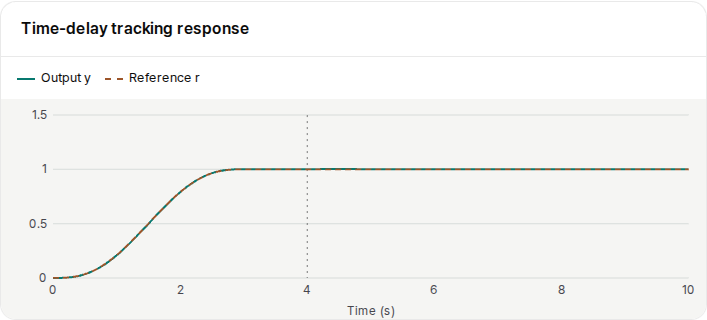
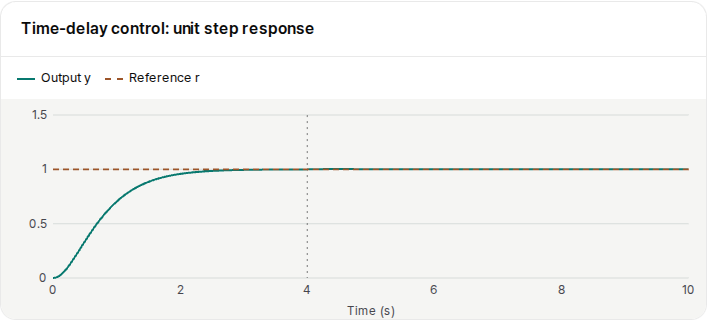
Use the common unit step in the time-delay control lab

diff --git a/tdc-lti/index.html b/tdc-lti/index.html
@@ -5,13 +5,13 @@
 <header class="site-header"><a class="brand" href="../" aria-label="Control Simulators 홈"><span class="brand-mark" aria-hidden="true"><img src="../assets/lab-logo.png" alt=""></span><span class="brand-label">CONTROL<br>SIMULATORS</span></a><div class="language-switch" role="group" aria-label="언어 선택"><button type="button" data-lang="ko" aria-pressed="true" lang="ko" disabled>한국어</button><button type="button" data-lang="en" aria-pressed="false" lang="en" disabled>EN</button></div></header>
 <main id="main" class="container pid-lab"><a class="back-link" href="../" data-en="← All experiments">← 모든 실험</a><div class="sim-heading"><div><h1 data-en="Time delay control (TDC) of a second-order LTI system">2차 LTI 시스템의 시간 지연 제어(TDC)</h1><p data-en="Estimate the unknown dynamics from past acceleration and applied input. Watch how long the estimate takes to respond after a disturbance step.">과거의 가속도와 실제 적용 입력으로 현재의 미지 동역학을 추정합니다. 외란이 바뀐 직후 추정값이 따라오는 시간을 확인하세요.</p></div></div>
 <noscript>실험을 조작하려면 JavaScript를 켜세요.</noscript><section class="panel plant-panel"><div class="panel-heading"><h2 data-en="Second-order plant">2차 시스템 설정</h2><span id="plant-equation">G(s) = 1 / (s² + s + 1)</span></div><div id="plant-controls"></div></section>
-<div class="pid-layout method-layout"><section class="panel pid-output" id="method-response-panel"><div class="panel-heading"><h2 id="response-title" data-en="Time-delay tracking response">시간지연 제어 추종 응답</h2></div><div class="legend pid-legend"><span class="key-output" data-en="Output y">출력 y</span><span class="key-target" data-en="Reference r">목표 r</span></div><svg id="response-plot" role="img" aria-labelledby="response-title"></svg></section>
+<div class="pid-layout method-layout"><section class="panel pid-output" id="method-response-panel"><div class="panel-heading"><h2 id="response-title" data-en="Time-delay control: unit step response">시간지연 제어 단위 계단응답</h2></div><div class="legend pid-legend"><span class="key-output" data-en="Output y">출력 y</span><span class="key-target" data-en="Reference r">목표 r</span></div><svg id="response-plot" role="img" aria-labelledby="response-title"></svg></section>
 <section class="panel pid-settings"><div class="panel-heading"><h2 data-en="Controller settings">제어기 설정</h2></div><div class="method-controls"><div><label for="method-delay" data-en="Estimation lag ℓ (samples)">추정 지연 ℓ (샘플)</label><output for="method-delay">1</output><input type="range" id="method-delay" min="1" max="10" step="1" value="1"></div><div><label for="method-nominal" data-en="Input-gain ratio b₀/b">입력 이득 비 b₀/b</label><output for="method-nominal">1</output><input type="range" id="method-nominal" min="0.75" max="1.5" step="0.05" value="1"></div><div><label for="method-disturbance" data-en="Acceleration disturbance after 4 s">4초부터의 가속도 외란 d</label><output for="method-disturbance">0.8</output><input type="range" id="method-disturbance" min="0" max="2" step="0.1" value="0.8"></div><button type="button" id="method-reset" class="primary" data-en="Reset">초기화</button></div></section>
 <section class="panel method-diagnostic" id="method-diag-panel"><div class="panel-heading"><h2 id="diag-title" data-en="Unknown dynamics and delayed estimate">미지 동역학과 시간지연 추정</h2></div><div class="legend pid-legend"><span class="key-unknown" data-en="True F">실제 F</span><span class="key-estimate" data-en="Delayed estimate F̂">지연 추정 F̂</span></div><svg id="diag-plot" role="img" aria-labelledby="diag-title"></svg><p class="method-caption" data-en="The simulator displays the true F for diagnosis. The controller only uses the estimate derived from earlier measurements.">실제 F는 시뮬레이터만 아는 진단값입니다. 제어기에는 과거 측정으로 구한 추정값만 전달됩니다.</p></section>
 <aside class="panel pid-guide"><div class="panel-heading"><h2 data-en="Try this">실험해 보기</h2></div><p class="method-caption" data-en="Increase the lag. Inspect the gap between F and its estimate when the disturbance changes at 4 s, then adjust the input-gain ratio.">지연 샘플 수를 늘려 보세요. 4초에 외란이 바뀔 때 실제 F와 추정값이 갈라지는 구간을 보고, 입력 이득 비를 바꿔 다시 확인하세요.</p><p id="method-status" role="status"></p></aside>
 <section class="panel method-input" id="method-input-panel"><div class="panel-heading"><h2 id="input-title" data-en="Applied control input">적용 제어입력</h2></div><div class="legend pid-legend"><span class="key-input" data-en="Applied input u">적용 입력 u</span></div><svg id="input-plot" role="img" aria-labelledby="input-title"></svg></section>
 <div class="pid-metrics"><div><span data-en="Final output y">종료 시 출력 y</span><strong id="method-final">—</strong></div><div><span data-en="Peak applied |u|">최대 적용 |u|</span><strong id="method-peak">—</strong></div><div><span data-en="Estimation lag">추정 지연 시간</span><strong id="method-stat">—</strong></div></div></div>
-<details class="panel pid-model"><summary data-en="Model, control law and assumptions">모델·제어식·가정</summary><div><p class="eq">G(s) = b / (s² + a₁s + a₀),　b = Kωₙ²,　a₁ = 2ζωₙ,　a₀ = ωₙ²</p><p class="eq">ÿ = F + b₀u</p><p class="eq">ā[k] = (v[k+1] − v[k]) / Tₛ,　F̂[k] = ā[k−ℓ] − b₀u[k−ℓ]</p><p class="eq">u = clip((r̈ + 6.25(r − y) + 5(ṙ − ẏ) − F̂)/b₀, −4, 4)</p><p data-en="The reference moves smoothly from 0 to 1 in 3 s and then holds. F is the interval average; b₀ is calibrated as the selected ratio times the true input gain b. The estimate is zero until history is available. Historical accelerations are paired with applied inputs from the same time, not unclipped commands. The lag selects the age of the estimate, not an actuator communication delay.">목표는 3초 동안 0에서 1까지 매끄럽게 이동한 뒤 유지됩니다. F는 각 입력 유지 구간에서의 평균값이며, b₀는 조절한 비율에 실제 입력 계수 b를 곱한 교육용 보정값입니다. 초기에는 지연 이력이 없으므로 추정값을 0으로 둡니다. 가속도와 입력은 같은 시점의 값으로 짝지으며, 입력에는 포화 전 명령이 아닌 실제 적용값을 사용합니다. 조절하는 지연은 추정에 쓰는 이력 길이이지 구동기 통신 지연이 아닙니다.</p></div></details>
+<details class="panel pid-model"><summary data-en="Model, control law and assumptions">모델·제어식·가정</summary><div><p class="eq">G(s) = b / (s² + a₁s + a₀),　b = Kωₙ²,　a₁ = 2ζωₙ,　a₀ = ωₙ²</p><p class="eq">ÿ = F + b₀u</p><p class="eq">ā[k] = (v[k+1] − v[k]) / Tₛ,　F̂[k] = ā[k−ℓ] − b₀u[k−ℓ]</p><p class="eq">r = 1,　u = clip((6.25(r − y) − 5ẏ − F̂)/b₀, −4, 4)</p><p data-en="As in the other Control fundamentals labs, output and velocity start at zero and the reference r is 1 from the first sample. The controller uses measured velocity rather than differentiating the setpoint step. F is the interval average; b₀ is calibrated as the selected ratio times the true input gain b. The estimate is zero until history is available. Historical accelerations are paired with applied inputs from the same time, not unclipped commands. The lag selects the age of the estimate, not an actuator communication delay.">다른 제어 기초 실험과 같이 출력과 속도는 0에서 시작하고, 목표값 r은 첫 샘플부터 1입니다. 제어기는 목표값의 계단 변화를 미분하지 않고 측정 속도 ẏ를 사용합니다. F는 각 입력 유지 구간에서의 평균값이며, b₀는 조절한 비율에 실제 입력 계수 b를 곱한 교육용 보정값입니다. 초기에는 지연 이력이 없으므로 추정값을 0으로 둡니다. 가속도와 입력은 같은 시점의 값으로 짝지으며, 입력에는 포화 전 명령이 아닌 실제 적용값을 사용합니다. 조절하는 지연은 추정에 쓰는 이력 길이이지 구동기 통신 지연이 아닙니다.</p></div></details>
 <p class="pid-source"><span data-en="Other labs with this plant">같은 시스템으로 다른 제어 실험</span>: <a data-plant-link="../pid-lti/" href="../pid-lti/">PID →</a> · <a data-plant-link="../mpc-lti/" href="../mpc-lti/">MPC →</a> · <a data-plant-link="../deepc-lti/" href="../deepc-lti/">DeePC →</a> · <a data-plant-link="../smc-lti/" href="../smc-lti/">SMC →</a></p>
 <p class="pid-source"><span data-en="Concept reference">원리 참고 문헌</span>: <a href="https://doi.org/10.1115/1.2894130" target="_blank" rel="noopener noreferrer">Youcef-Toumi &amp; Ito (1990) ↗</a></p></main>
 <footer class="site-footer"><span><strong>Control Simulators</strong><span class="footer-tag">Interactive Control Lab</span></span><a href="../" data-en="Back to experiments ↑">실험 목록으로 돌아가기 ↑</a></footer></body></html>

diff --git a/assets/method-labs-content.js b/assets/method-labs-content.js
@@ -22,11 +22,11 @@ export const labs={
  'tdc-lti':{
   intro:['과거의 가속도와 실제 적용 입력으로 현재의 미지 동역학을 추정합니다. 외란이 바뀐 직후 추정값이 따라오는 시간을 확인하세요.','Estimate the unknown dynamics from past acceleration and applied input. Watch how long the estimate takes to respond after a disturbance step.'],
   settings:[{key:'delay',label:['추정 지연 ℓ (샘플)','Estimation lag ℓ (samples)'],range:[1,10,1,1]},{key:'nominal',label:['입력 이득 비 b₀/b','Input-gain ratio b₀/b'],range:[.75,1.5,.05,1]},disturbance],
-  response:['시간지연 제어 추종 응답','Time-delay tracking response'],diag:['미지 동역학과 시간지연 추정','Unknown dynamics and delayed estimate'],
+  response:['시간지연 제어 단위 계단응답','Time-delay control: unit step response'],diag:['미지 동역학과 시간지연 추정','Unknown dynamics and delayed estimate'],
   diagnosticNote:['실제 F는 시뮬레이터만 아는 진단값입니다. 제어기에는 과거 측정으로 구한 추정값만 전달됩니다.','The simulator displays the true F for diagnosis. The controller only uses the estimate derived from earlier measurements.'],
   task:['지연 샘플 수를 늘려 보세요. 4초에 외란이 바뀔 때 실제 F와 추정값이 갈라지는 구간을 보고, 입력 이득 비를 바꿔 다시 확인하세요.','Increase the lag. Inspect the gap between F and its estimate when the disturbance changes at 4 s, then adjust the input-gain ratio.'],
-  equations:['ÿ = F + b₀u','ā[k] = (v[k+1] − v[k]) / Tₛ,　F̂[k] = ā[k−ℓ] − b₀u[k−ℓ]', 'u = clip((r̈ + 6.25(r − y) + 5(ṙ − ẏ) − F̂)/b₀, −4, 4)'],
-  assumptions:['목표는 3초 동안 0에서 1까지 매끄럽게 이동한 뒤 유지됩니다. F는 각 입력 유지 구간에서의 평균값이며, b₀는 조절한 비율에 실제 입력 계수 b를 곱한 교육용 보정값입니다. 초기에는 지연 이력이 없으므로 추정값을 0으로 둡니다. 가속도와 입력은 같은 시점의 값으로 짝지으며, 입력에는 포화 전 명령이 아닌 실제 적용값을 사용합니다. 조절하는 지연은 추정에 쓰는 이력 길이이지 구동기 통신 지연이 아닙니다.','The reference moves smoothly from 0 to 1 in 3 s and then holds. F is the interval average; b₀ is calibrated as the selected ratio times the true input gain b. The estimate is zero until history is available. Historical accelerations are paired with applied inputs from the same time, not unclipped commands. The lag selects the age of the estimate, not an actuator communication delay.'],
+  equations:['ÿ = F + b₀u','ā[k] = (v[k+1] − v[k]) / Tₛ,　F̂[k] = ā[k−ℓ] − b₀u[k−ℓ]', 'r = 1,　u = clip((6.25(r − y) − 5ẏ − F̂)/b₀, −4, 4)'],
+  assumptions:['다른 제어 기초 실험과 같이 출력과 속도는 0에서 시작하고, 목표값 r은 첫 샘플부터 1입니다. 제어기는 목표값의 계단 변화를 미분하지 않고 측정 속도 ẏ를 사용합니다. F는 각 입력 유지 구간에서의 평균값이며, b₀는 조절한 비율에 실제 입력 계수 b를 곱한 교육용 보정값입니다. 초기에는 지연 이력이 없으므로 추정값을 0으로 둡니다. 가속도와 입력은 같은 시점의 값으로 짝지으며, 입력에는 포화 전 명령이 아닌 실제 적용값을 사용합니다. 조절하는 지연은 추정에 쓰는 이력 길이이지 구동기 통신 지연이 아닙니다.','As in the other Control fundamentals labs, output and velocity start at zero and the reference r is 1 from the first sample. The controller uses measured velocity rather than differentiating the setpoint step. F is the interval average; b₀ is calibrated as the selected ratio times the true input gain b. The estimate is zero until history is available. Historical accelerations are paired with applied inputs from the same time, not unclipped commands. The lag selects the age of the estimate, not an actuator communication delay.'],
  }
 };
 export const labels={output:['출력 y','Output y'],target:['목표 r','Reference r'],input:['적용 입력 u','Applied input u'],'record-u':['기록 입력 u','Recorded input u'],'record-y':['측정 출력 y','Measured output y'],phase:['오차 궤적','Error trajectory'],surface:['슬라이딩 면 s = 0','Sliding surface s = 0'],unknown:['실제 F','True F'],estimate:['지연 추정 F̂','Delayed estimate F̂']};

diff --git a/tests/tdc-lti.test.js b/tests/tdc-lti.test.js
@@ -24,7 +24,7 @@ function oracleInterval([y, v], {wn, zeta, gain}, b0, u, d, dt) {
   return {state: [y, v], f: integral / dt};
 }
 
-test('the shaped unit move starts from rest on the fixed clock; no fictitious prehistory', () => {
+test('the unit setpoint is active on the first hold from rest; no fictitious prehistory', () => {
   const plant = {wn: 1.5, zeta: 0.7, gain: 0.8}, nominal = 0.9, delay = 8;
   const {samples, dt, duration, b0} = simulate({plant, nominal, delay, disturbance: 0});
   assert.equal(dt, 0.02);
@@ -32,15 +32,13 @@ test('the shaped unit move starts from rest on the fixed clock; no fictitious pr
   near(b0, nominal * plant.gain * plant.wn**2);
   let state = [0, 0];
   for (let k = 0; k < delay; k++) {
-    const s = samples[k], x = k * dt / 3; // three-second quintic rest-to-rest move
-    const r = 10*x**3 - 15*x**4 + 6*x**5;
-    const rd = (30*x**2 - 60*x**3 + 30*x**4)/3;
-    const rdd = (60*x - 180*x**2 + 120*x**3)/9;
+    const s = samples[k];
     assert.equal(s.t, k * dt);
-    near(s.r, r);
+    assert.equal(s.r, 1);
     near(s.y, state[0]); near(s.v, state[1]);
     assert.equal(s.fHat, 0);
-    near(s.u, (rdd + 5*(rd - state[1]) + 6.25*(r - state[0])) / b0);
+    const raw = (6.25*(1 - state[0]) - 5*state[1]) / b0;
+    near(s.uRaw, raw); near(s.u, Math.max(-4, Math.min(4, raw)));
     state = oracleInterval(state, plant, b0, s.u, 0, dt).state;
   }
 });
@@ -53,15 +51,13 @@ test('independent closed loop: state and interval-average F, including the last 
     const truth = [];
     let state = [0, 0];
     for (const [k, s] of samples.entries()) {
-      const t = k * dt, x = Math.min(1, t / 3);
-      const r = 10*x**3 - 15*x**4 + 6*x**5;
-      const rd = (30*x**2 - 60*x**3 + 30*x**4)/3;
-      const rdd = (60*x - 180*x**2 + 120*x**3)/9;
+      const t = k * dt;
       const estimate = k < delay ? 0 : truth[k - delay];
-      const command = (rdd + 6.25*(r - state[0]) + 5*(rd - state[1]) - estimate) / b0;
+      const raw = (6.25*(1 - state[0]) - 5*state[1] - estimate) / b0;
+      const command = Math.max(-4, Math.min(4, raw));
       const {state: next, f} = oracleInterval(state, plant, b0, command, 0, dt);
       assert.equal(s.t, t);
-      near(s.r, r); near(s.y, state[0], 1e-9); near(s.v, state[1], 1e-9);
+      assert.equal(s.r, 1); near(s.uRaw, raw, 1e-9); near(s.y, state[0], 1e-9); near(s.v, state[1], 1e-9);
       near(s.fHat, estimate, 1e-9); near(s.u, command, 1e-9);
       near(s.f, f, 1e-9);
       state = next; truth.push(f);
@@ -136,7 +132,9 @@ test('reports bounds, defaults, timing convention and the conceptual TDC source 
   assert.match(spec.history, /interval average/i);
   assert.match(spec.source, /https:\/\/doi\.org\/10\.1115\/1\.2894130/);
   assert.deepEqual(samples, simulate({plant: {wn: 1, zeta: 0.5, gain: 1}, delay: 1, nominal: 1, disturbance: 0.8}).samples);
-  assert.ok(samples.every(s => !s.saturated && Math.abs(s.r - s.y) < 0.01));
+  assert.deepEqual([samples[0].t, samples[0].y, samples[0].v, samples[0].r, samples[0].uRaw, samples[0].u], [0, 0, 0, 1, 6.25, 4]);
+  assert.ok(samples.every(s => s.r === 1));
+  assert.ok(samples.slice(-25).every(s => !s.saturated && Math.abs(1 - s.y) < 0.01));
 });
 
 test('plant and controller corners remain finite; feasible steady states track without sustained switching', () => {

diff --git a/tests/method-labs.spec.js b/tests/method-labs.spec.js
@@ -23,7 +23,21 @@ test('DeePC: insufficient excitation leaves recorded input/output visible withou
 test('diagnostics use the measured PE rank and the TDC reference and final physical state',async({page})=>{
  await page.goto(base+'deepc-lti/?lang=en');await expect(page.locator('#method-stat')).toHaveText('14 / 14');await page.locator('#method-excitation').selectOption('0');await expect(page.locator('#method-stat')).toHaveText('1 / 14');
  await page.goto(base+'tdc-lti/?lang=en');await expect(path(page,'output')).toBeVisible();const truth=await page.evaluate(async()=>{const {simulate}=await import('../assets/models/tdc-lti.js');const r=simulate();return {final:r.finalState.y.toFixed(3),peak:Math.max(...r.samples.map(s=>Math.abs(s.u))).toFixed(3)};});
- await expect(page.locator('#method-final')).toHaveText(truth.final);await expect(page.locator('#method-peak')).toHaveText(truth.peak);expect(await path(page,'target').evaluate(p=>p.getBBox().height)).toBeGreaterThan(30);
+ await expect(page.locator('#method-final')).toHaveText(truth.final);await expect(page.locator('#method-peak')).toHaveText(truth.peak);
+});
+test('all Control fundamentals output plots hold the reference at the unit tick from t=0',async({page})=>{
+ const selectors={'pid-lti':'#pid-output-plot path:not([data-series])','mpc-lti':'#mpc-output-plot path:not([data-series])'};
+ for(const id of ['pid-lti','mpc-lti','deepc-lti','smc-lti','tdc-lti']){
+  await page.goto(`${base}${id}/`);const target=page.locator(selectors[id]??'#response-plot path[data-series="target"]');await expect(target).toHaveCount(1);
+  const errors=await target.evaluate(p=>{
+   const svg=p.ownerSVGElement,box=p.getBBox();
+   const tick=[...svg.querySelectorAll('text[text-anchor="end"]')].find(el=>el.textContent==='1');
+   const y=Number(tick.getAttribute('y'))-4;
+   const grid=[...svg.querySelectorAll('line')].find(el=>Math.abs(Number(el.getAttribute('y1'))-y)<.01 && el.getAttribute('y1')===el.getAttribute('y2'));
+   return [box.height,box.y-y,box.x-Number(grid.getAttribute('x1')),box.x+box.width-Number(grid.getAttribute('x2'))];
+  });
+  for(const err of errors)expect(Math.abs(err),id).toBeLessThan(.02);
+ }
 });
 test('cross-lab navigation carries language and plant through classical and modern labs',async({page})=>{
  await page.goto(base+'mpc-lti/?lang=en&gain=1.5&zeta=1.2');for(const id of ['deepc-lti','smc-lti','tdc-lti','pid-lti']){await page.locator(`a[href*="../${id}/"]`).first().click();await expect(page.locator('#plant-gain')).toHaveValue('1.5');await expect(page.locator('#plant-zeta')).toHaveValue('1.2');await expect(page.locator('html')).toHaveAttribute('lang','en');}

diff --git a/assets/models/tdc-lti.js b/assets/models/tdc-lti.js
@@ -1,6 +1,6 @@
 import {coefficients, heldInputStep, ranges} from './second-order.js';
 
-const DT = 0.02, DURATION = 10, MOVE_TIME = 3, INPUT_LIMIT = 4;
+const DT = 0.02, DURATION = 10, INPUT_LIMIT = 4;
 const DISTURBANCE_START = 4;
 
 const knob = (min, max, initial, meaning) => Object.freeze({min, max, initial, meaning});
@@ -22,14 +22,6 @@ function checkRange(name, value) {
   }
 }
 
-// Quintic unit move, with continuous velocity and acceleration at both joins.
-function reference(t) {
-  if (t >= MOVE_TIME) return [1, 0, 0];
-  const x = t / MOVE_TIME, q = x * (1 - x);
-  return [x**3 * (10 + x*(-15 + 6*x)), 30*q*q / MOVE_TIME,
-    60*q*(1 - 2*x) / MOVE_TIME**2];
-}
-
 export function simulate({plant, nominal = spec.nominal.initial, delay = spec.delay.initial,
   disturbance = spec.disturbance.initial} = {}) {
   if (!Number.isInteger(delay)) throw new RangeError('delay must be an integer sample lag');
@@ -41,15 +33,16 @@ export function simulate({plant, nominal = spec.nominal.initial, delay = spec.de
   const {b} = coefficients(plant);
   const b0 = nominal * b, advance = heldInputStep(plant, DT);
   const samples = [];
+  const r = 1; // Command from the first hold; do not differentiate the setpoint jump.
   let state = [0, 0];
   for (let k = 0; k < DURATION / DT; k++) {
     const t = k * DT, [y, v] = state;
-    const [r, rd, rdd] = reference(t);
+
     // Row j describes [t_j, t_{j+1}). Its average acceleration measurement
     // first exists at t_{j+1}; delay=1 selects the most recent COMPLETE hold.
     const past = samples[k - delay];
     const fHat = past ? past.a - b0*past.u : 0;
-    const uRaw = (rdd + 6.25*(r - y) + 5*(rd - v) - fHat) / b0;
+    const uRaw = (6.25*(r - y) - 5*v - fHat) / b0;
     const u = Math.max(-INPUT_LIMIT, Math.min(INPUT_LIMIT, uRaw));
     const d = t >= DISTURBANCE_START ? disturbance : 0;
     state = advance(state, u + d/b); // d is additive acceleration, not actuator effort

diff --git a/README.md b/README.md
@@ -7,7 +7,7 @@
 ## 범위
 
 - 참고 강의자료의 프로젝트를 찾아보는 검색·분류 대시보드
-- 개별 실험 21개: 장치 실험 16개와 그래프 전용 실험 5개(PID, MPC, DeePC, SMC, TDC)
+- 개별 실험 21개: 장치 실험 16개와 그래프 전용 실험 5개(PID, MPC, DeePC, SMC, TDC). 제어 기초 실험은 같은 2차 플랜트와 초기 상태(출력·속도 0)를 사용하며, 목표 출력은 첫 샘플부터 끝까지 1입니다.
 - 기존 Research의 로봇 궤적 추종·접촉 제어로 바로 연결
 - 한국어/EN 전환; 언어를 바꿔도 실험 상태 유지
 - 전체 23개 카드 실행 가능: 로컬 실험 21개 + Research 연결 2개
